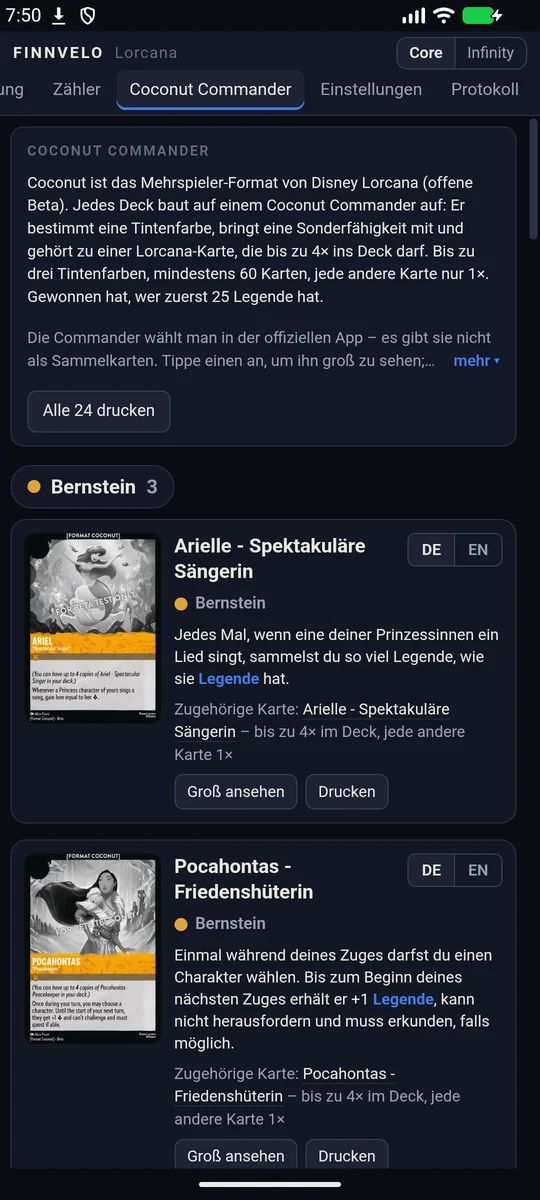
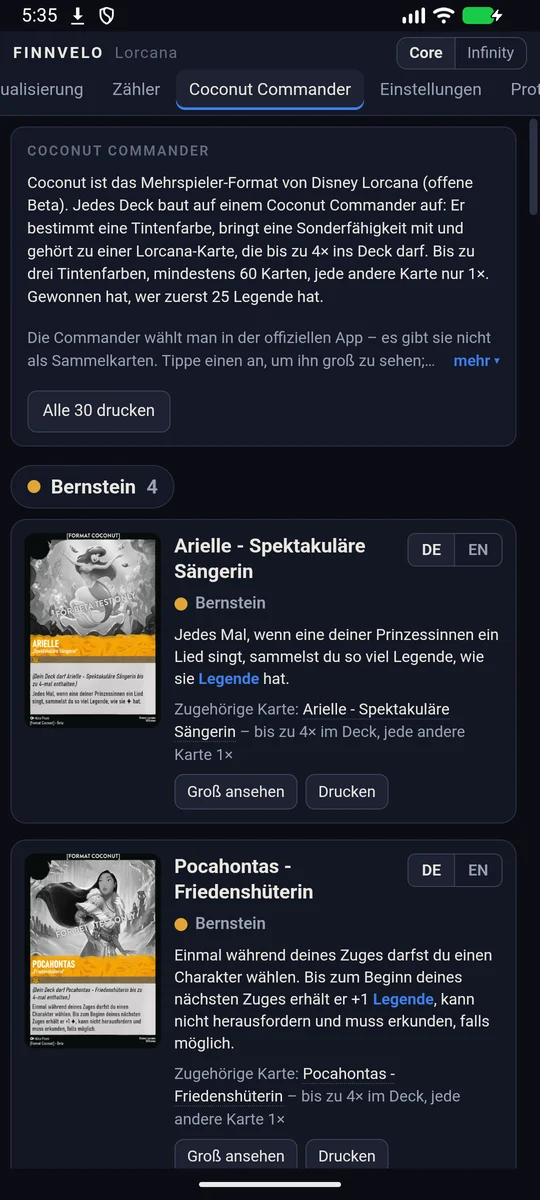
TCG Sammelmappe: App 1.2.39, PC 1.3.34 und neue Coconut-Bilder
App-Download 1.2.39 (android.json mit Block „oberflaeche“ für Paket 1.2.39)
und Windows-Einrichtung 1.3.34; Mac und Steam Deck folgen nach dem Bau.
Neue Hinweise: schneller Blick der Kamera rund 20 % schneller,
Yu-Gi-Oh!-Bildhinweis zu „Replica“. Die Bilder Coconut Commander (PC und
Handy) zeigen jetzt die deutschen Kartenbilder, mit neuen Texten.

diff --git a/lorcana.html b/lorcana.html
@@ -176,8 +176,8 @@
               <figcaption><strong>Meine Decks</strong>Alle Decks mit Kartenbildern, Wert, fehlenden Karten und Bericht.</figcaption>
             </figure>
             <figure class="program-media-card">
-              <img src="assets/images/oberflaeche/lorcana-pc-coconut-commander.webp" width="1280" height="800" loading="lazy" alt="Seite Coconut Commander mit den Commandern nach Farben, darunter Arielle, Pocahontas und Stitch, je mit Kartentext und Knöpfen zum Drucken.">
-              <figcaption><strong>Coconut Commander</strong>Alle Commander des Coconut-Formats mit Text auf Deutsch und Englisch, zum Drucken in Originalgröße.</figcaption>
+              <img src="assets/images/oberflaeche/lorcana-pc-coconut-commander.webp" width="1280" height="800" loading="lazy" alt="Seite Coconut Commander im PC-Programm: Einleitung, Knopf ‚Alle 30 drucken‘ und die Bernstein-Commander Arielle, Pocahontas, Stitch und Der schwarze Zauberkessel mit deutschem Kartenbild und Text.">
+              <figcaption><strong>Coconut Commander</strong>Alle 30 Karten, auf Deutsch übersetzt zum Ausdrucken.</figcaption>
             </figure>
           </div>
           <div class="program-media-grid program-media-grid--hoch program-media-grid--hoch-voll" data-fv-text-extra aria-label="Ansichten der Android-App">
@@ -202,8 +202,8 @@
               <figcaption><strong>Deck-Generator</strong>Format, Farben und Grundtempo wählen – der Generator baut und testet.</figcaption>
             </figure>
             <figure class="program-media-card">
-              <img src="assets/images/oberflaeche/lorcana-handy-coconut-commander.webp" width="540" height="1200" loading="lazy" alt="Seite Coconut Commander mit Arielle und Pocahontas, je mit Fähigkeit und Knöpfen „Groß ansehen“ und „Drucken“.">
-              <figcaption><strong>Coconut Commander</strong>Alle Commander mit Text auf Deutsch und Englisch, zum Drucken.</figcaption>
+              <img src="assets/images/oberflaeche/lorcana-handy-coconut-commander.webp" width="540" height="1200" loading="lazy" alt="Seite Coconut Commander in der Handy-App: Einleitung, ‚Alle 30 drucken‘ und die Commander Arielle und Pocahontas mit deutschem Kartenbild.">
+              <figcaption><strong>Coconut Commander</strong>Deutsche Kartenbilder, Umschalter DE/EN.</figcaption>
             </figure>
             <figure class="program-media-card">
               <img src="assets/images/oberflaeche/lorcana-handy-zaehler.webp" width="540" height="1200" loading="lazy" alt="Legenden-Zähler für zwei Spieler, gegenüberliegend, mit Plus- und Minus-Knöpfen und dem Startwurf in der Mitte.">
@@ -346,9 +346,9 @@
         <section class="program-info-block program-download-block" aria-labelledby="download-title">
           <h2 id="download-title">Download (Android-App)</h2>
           <div class="download-slot">
-            <h3>Fassung 1.2.38</h3>
+            <h3>Fassung 1.2.39</h3>
             <p>Die Android-App als Installationsdatei (APK, rund 12,7 MB) für Android 7 oder neuer. Sie kommt nicht aus dem Play Store, deshalb fragen Chrome und Android beim Herunterladen und Installieren nach. Was dann zu tun ist, erklärt „Warum warnt mein Gerät?“.</p>
-            <a class="button" href="https://github.com/finnveloprogrammwelten-crypto/finnvelo-programmwelten/releases/download/FinnveloLorcana/FINNVELO-TCG-Sammelmappe-1.2.38.apk" target="_blank" rel="noopener">Download starten</a>
+            <a class="button" href="https://github.com/finnveloprogrammwelten-crypto/finnvelo-programmwelten/releases/download/FinnveloLorcana/FINNVELO-TCG-Sammelmappe-1.2.39.apk" target="_blank" rel="noopener">Download starten</a>
           </div>
           <div class="download-slot download-slot--muted">
             <h3>Aktualisierungen</h3>
@@ -358,9 +358,9 @@
         <section class="program-info-block program-download-block program-download-block--pc" aria-labelledby="download-pc-title">
           <h2 id="download-pc-title">Download (PC-Version)</h2>
           <div class="download-slot">
-            <h3>Fassung 1.3.33</h3>
+            <h3>Fassung 1.3.34</h3>
             <p>Installationsprogramm für Windows 10 und 11 (64 Bit, rund 93 MB). Das Programm bietet denselben Funktionsumfang wie die App und gleicht sich mit ihr im WLAN ab.</p>
-            <a class="button" href="https://github.com/finnveloprogrammwelten-crypto/finnvelo-programmwelten/releases/download/FinnveloLorcana/FINNVELO-TCG-Sammelmappe-Einrichtung-1.3.33.exe" target="_blank" rel="noopener">PC-Version herunterladen</a>
+            <a class="button" href="https://github.com/finnveloprogrammwelten-crypto/finnvelo-programmwelten/releases/download/FinnveloLorcana/FINNVELO-TCG-Sammelmappe-Einrichtung-1.3.34.exe" target="_blank" rel="noopener">PC-Version herunterladen</a>
           </div>
           <div class="download-slot download-slot--muted">
             <h3>Hinweis</h3>

diff --git a/worker.js b/worker.js
@@ -1877,14 +1877,14 @@ export class Counter extends DurableObject {
                        heisst jetzt Lesezeit. */
                     paket: "de.finnvelo.lesetagebuch" },
         /* Lorcana / TCG Sammelmappe: vorbelegt mit der jeweils zuletzt hochgeladenen Fassung (Stand
-           19.11.2026: PC 1.3.33, App 1.2.38). Ein in der Kachel "Aktualisierung"
+           20.11.2026: PC 1.3.34, App 1.2.39). Ein in der Kachel "Aktualisierung"
            gespeicherter Eintrag hat Vorrang. */
-        "lorcana-pc": { schluessel: "FINNVELO-LORCANA-PC", versionCode: 10333, versionName: "1.3.33",
-                        apk: "https://github.com/finnveloprogrammwelten-crypto/finnvelo-programmwelten/releases/download/FinnveloLorcana/FINNVELO-TCG-Sammelmappe-Einrichtung-1.3.33.exe",
-                        hinweise: "Coconut Commander: alle 30 Karten mit Bild wie in der offiziellen App – auch die sechs neuen. Coconut Commander: jede Karte zusätzlich auf Deutsch übersetzt zum Ausdrucken (Umschalter DE/EN). Coconut Commander am Handy: Druckvorlage jetzt auch als PDF." },
-        "lorcana-android": { schluessel: "FINNVELO-LORCANA-ANDROID", versionCode: 10238, versionName: "1.2.38",
-                             apk: "https://github.com/finnveloprogrammwelten-crypto/finnvelo-programmwelten/releases/download/FinnveloLorcana/FINNVELO-TCG-Sammelmappe-1.2.38.apk",
-                             hinweise: "Coconut Commander: alle 30 Karten mit Bild wie in der offiziellen App – auch die sechs neuen. Coconut Commander: jede Karte zusätzlich auf Deutsch übersetzt zum Ausdrucken (Umschalter DE/EN). Coconut Commander am Handy: Druckvorlage jetzt auch als PDF." },
+        "lorcana-pc": { schluessel: "FINNVELO-LORCANA-PC", versionCode: 10334, versionName: "1.3.34",
+                        apk: "https://github.com/finnveloprogrammwelten-crypto/finnvelo-programmwelten/releases/download/FinnveloLorcana/FINNVELO-TCG-Sammelmappe-Einrichtung-1.3.34.exe",
+                        hinweise: "Kamera-Erfassung: Der schnelle Blick nach Karten ist rund 20 % schneller – bei allen Spielen, gleiche Ergebnisse. Yu-Gi-Oh!: In der Großansicht steht jetzt, dass „Replica – Not for Use in Sanctioned Tournaments“ und die Jahreszahl zur Bildvorlage gehören, nicht zu deiner Karte." },
+        "lorcana-android": { schluessel: "FINNVELO-LORCANA-ANDROID", versionCode: 10239, versionName: "1.2.39",
+                             apk: "https://github.com/finnveloprogrammwelten-crypto/finnvelo-programmwelten/releases/download/FinnveloLorcana/FINNVELO-TCG-Sammelmappe-1.2.39.apk",
+                             hinweise: "Kamera-Erfassung: Der schnelle Blick nach Karten ist rund 20 % schneller – bei allen Spielen, gleiche Ergebnisse. Yu-Gi-Oh!: In der Großansicht steht jetzt, dass „Replica – Not for Use in Sanctioned Tournaments“ und die Jahreszahl zur Bildvorlage gehören, nicht zu deiner Karte." },
         /* Mac (Universal-DMG) und Linux/Steam Deck (AppImage): Aufbau wie lorcana-pc, gleicher Schlüssel. */
         "lorcana-mac": { schluessel: "FINNVELO-LORCANA-PC", versionCode: 10333, versionName: "1.3.33",
                          apk: "https://github.com/finnveloprogrammwelten-crypto/finnvelo-programmwelten/releases/download/FinnveloLorcana/FINNVELO-TCG-Sammelmappe-1.3.33-universal.dmg",
